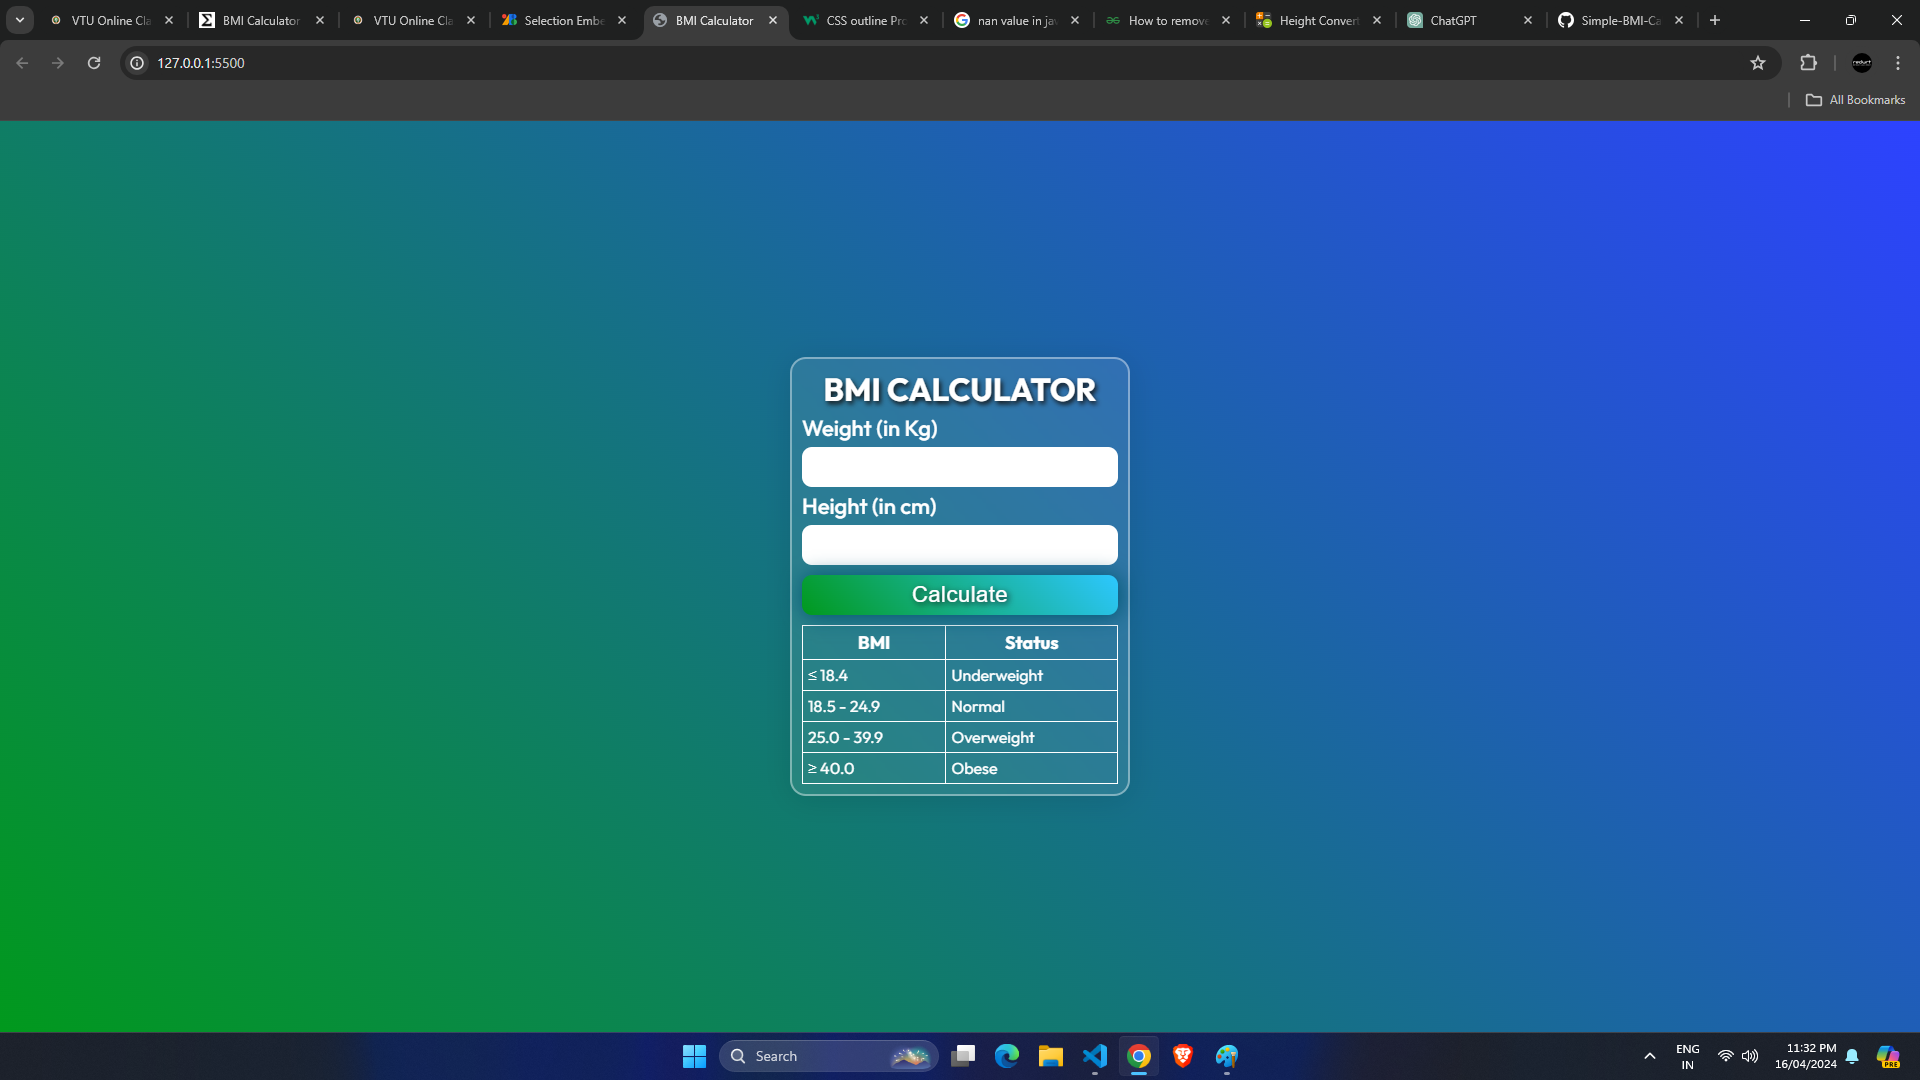
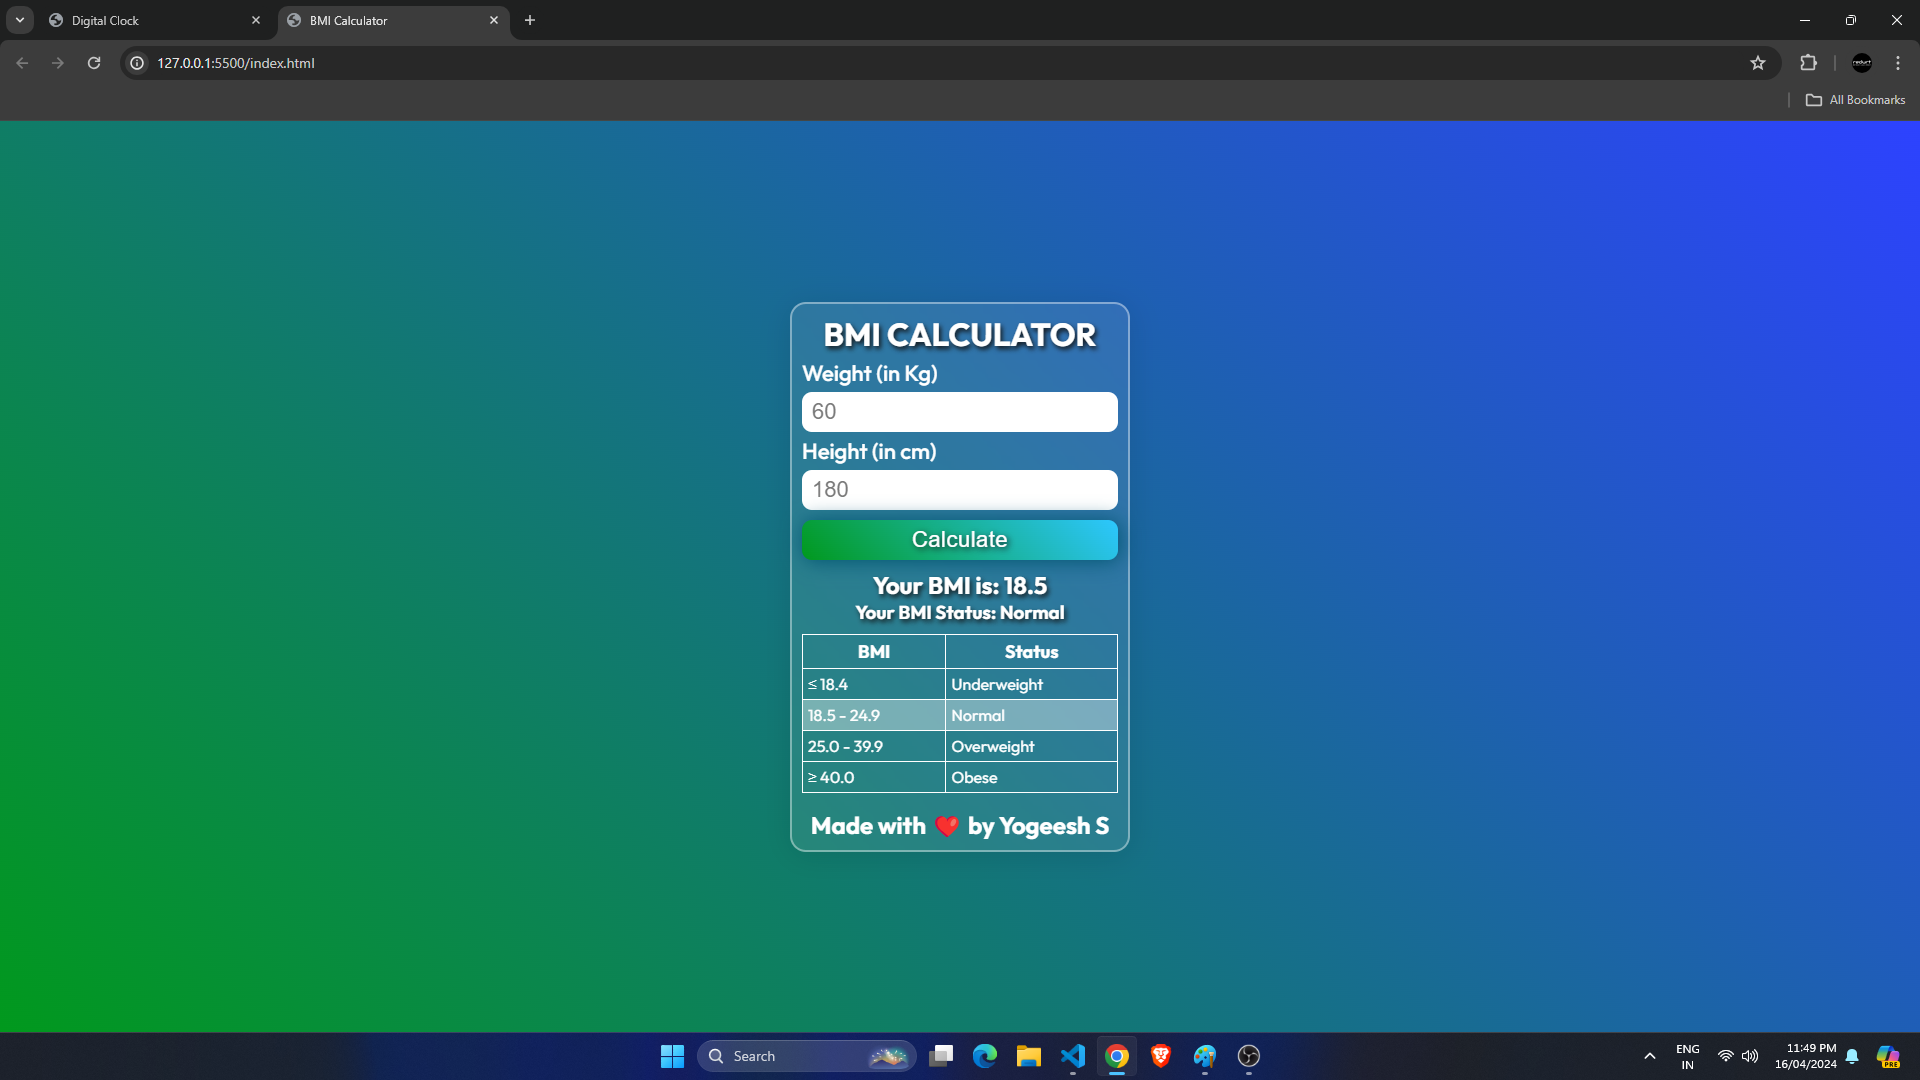
Add files via upload

diff --git a/script.js b/script.js
@@ -25,7 +25,7 @@ document.getElementById('calculate').addEventListener('click',() => {
             document.getElementById('row4').style.backgroundColor = 'rgba(255, 255, 255, 0.374)';
         }
     }else{
-        alert('Please Enter valid date and height')
+        alert('Please enter valid weight and height')
     }
     
 })

diff --git a/index.html b/index.html
@@ -27,6 +27,7 @@
                 <tr id="row4"><td>≥ 40.0</td><td>Obese</td></tr>
             </tbody>
         </table>
+        <h2 class="credits">Made with ❤ by Yogeesh S</h2>
     </div>
     <script src="script.js"></script>
 </body>

diff --git a/style.css b/style.css
@@ -113,5 +113,11 @@ td{
     font-size: 16px;
 }
 
+.credits{
+    text-align: center;
+    margin-top: 15px;
+    color: white;
+}
+
 
 
